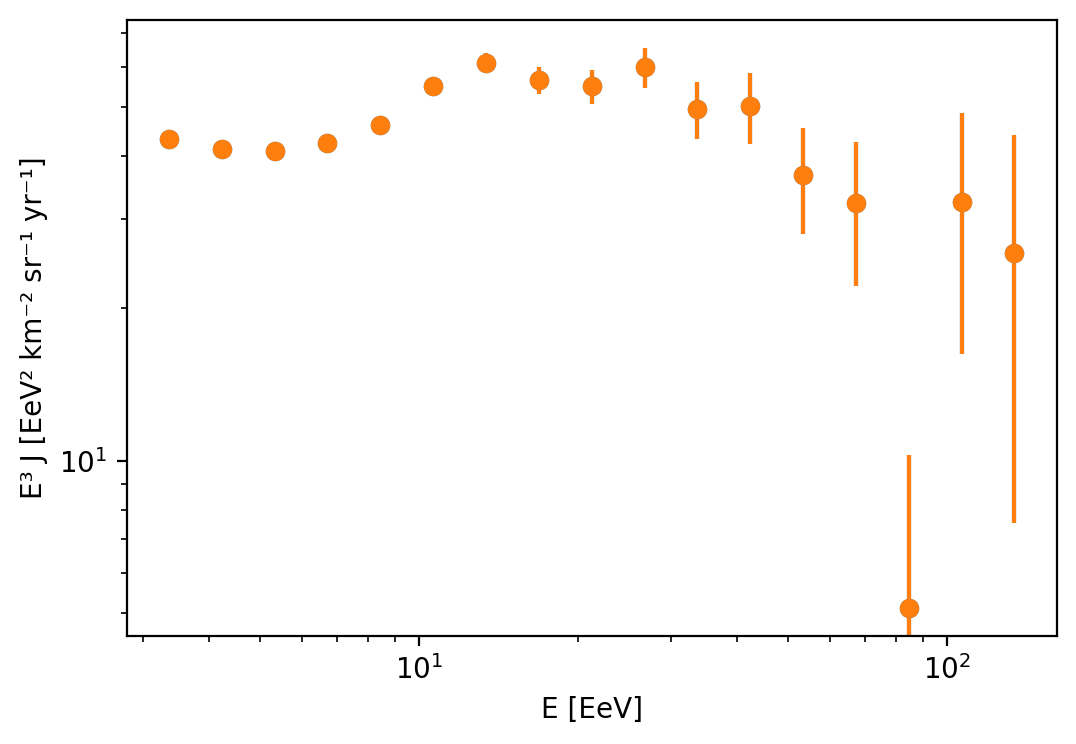
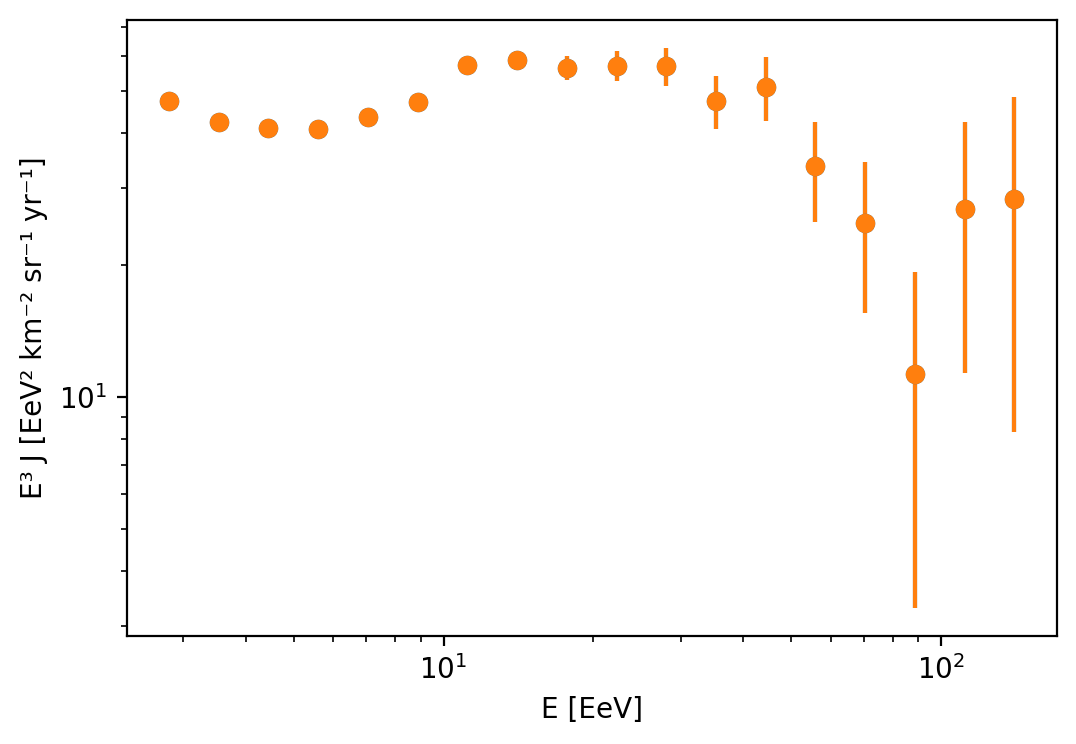
Apply Auger selection cuts (zenith <= 60 deg, E >= 2.5 EeV)

diff --git a/spectrum.py b/spectrum.py
@@ -25,8 +25,10 @@ plt.xlabel("log10(sd_energy)")
 plt.ylabel("events")
 plt.show()
 print(ex["sd_exposure"].iloc[-1], ex["sd_exposure_all"].iloc[-1])
-E = ev["sd_energy"].dropna().values
-Emin = 3.0                     
+Emin = 2.5   # EeV, from the Auger notebook
+sel = ev["sd_energy"].notna() & (ev["sd_energy"] >= Emin) & (ev["sd_theta"] < 60)
+E = ev.loc[sel, "sd_energy"].values
+print("events used:", len(E))                   
 E = E[E >= Emin]
 exposure = ex["sd_exposure"].iloc[-1] 
 edges = 10**np.arange(np.log10(Emin), 2.25, 0.1)   
@@ -62,3 +64,4 @@ plt.ylabel("E³ J [EeV² km⁻² sr⁻¹ yr⁻¹]")
 (BASE / "figures").mkdir(exist_ok=True)
 plt.savefig(BASE / "figures" / "spectrum_E3J.png", dpi=200, bbox_inches="tight")
 plt.show()
+print(ev["sd_theta"].describe())
